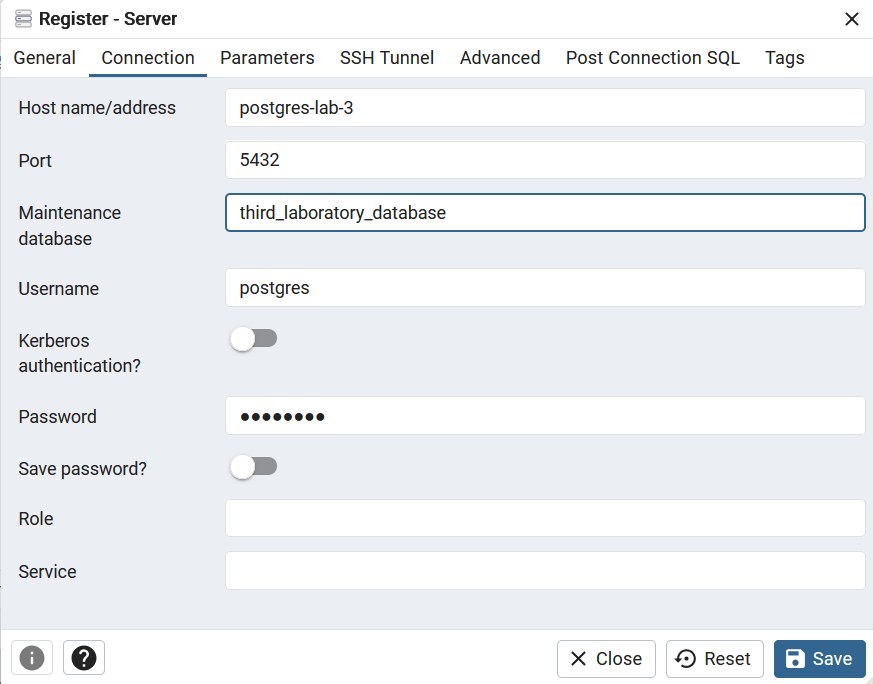
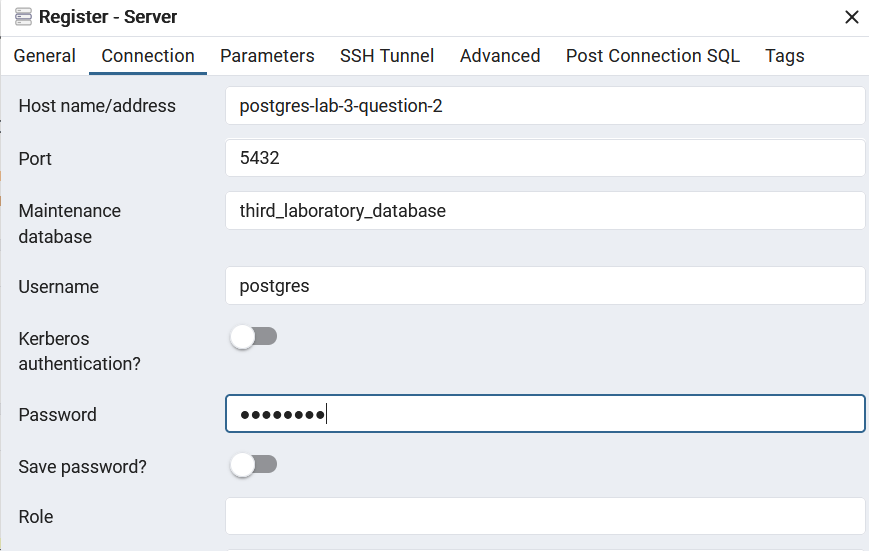
Отрефачил 2 задание

diff --git a/protection_in_databases/3/2/README.md b/protection_in_databases/3/2/README.md
@@ -1,21 +1,24 @@
 # Восстановить БД из бэкапа (разархивировать, восстановить в `pgadmin`) в схему `istudents`
 
 > [!IMPORTANT]
-> Скачайте файл `istudents_lab.backup`, который вам пришлет староста. 
-> Я его, к сожалению, не могу добавить его на `GitHub`, потому что он очень много весит. 
-> Вам нужно его расположить в текущей директории, где данный `README.md` файл.   
+> Создайте файл `.env` в данной директории, скопировав значения [отсюда](.env.example)
 
-В моем случае восстановление бэкапа представлено в файле [здесь](script.sh). 
-Он запускается через отдельный контейнер, потому что при его одновременном запуске 
+> [!IMPORTANT]
+> Скачайте файл `istudents_lab.backup`, который вам пришлет староста.
+> Я его, к сожалению, не могу добавить его на `GitHub`, потому что он очень много весит. 
+> Вам нужно его расположить в данной [директории](scripts/restore).
+
+В моем случае восстановление бэкапа представлено в файле [здесь](scripts/restore/script.sh). 
+Он запускается через отдельный контейнер.
 
 > [!IMPORTANT]
 > Пользователь, которого я создал - это `postgres`, а пароль от его учетной записи - `postgres`. 
-> Текущие значения у меня заданы в `.env`. 
+> Текущие значения у меня заданы в `.env`. Пример смотрите [здесь](.env.example) 
 
 ### Как посмотреть что там из бэкапа восстановилось?
 
 Если вы хотите просмотреть какие таблицы получились в итоге, то вам нужно зайти в `pgadmin`. 
-Для этого в браузере в моем случае я вбиваю `localhost:5050`
+Для этого в браузере в моем случае я вбиваю `localhost:5050`. 
 
 > [!NOTE]
 > У меня в `.env` `PGADMIN_PORT=5050`. 
@@ -34,7 +37,7 @@
 
 > [!NOTE]
 > В моем случае данные были такими:
-> - `postgres-lab-3` - имя `Docker` контейнера
+> - `Host name/address` - хост для подключения. У меня значение - `postgres-lab-3-question-2` - имя `Docker` контейнера
 > - `port` - порт для подключения во внутренней сети `Docker`. Он 5432 будет, если вы используете мой конфиг. 
 > - `Maintenance database` - `third_laboratory_database`, данное название я задал в `.env` под переменной `POSTGRES_DB`
 > - `Username` - `postgres`, данное название я задал в `.env` под переменной `POSTGRES_USER`
@@ -44,3 +47,12 @@
 
 ![tables.png](docs/4.png)
 
+Вот такое отношение таблиц выходит, представлено все ниже:
+
+![relations.png](docs/5.png)
+
+Для запуска используйте команду, которая представлена ниже: 
+
+```docker
+docker compose --env-file .env up
+```
